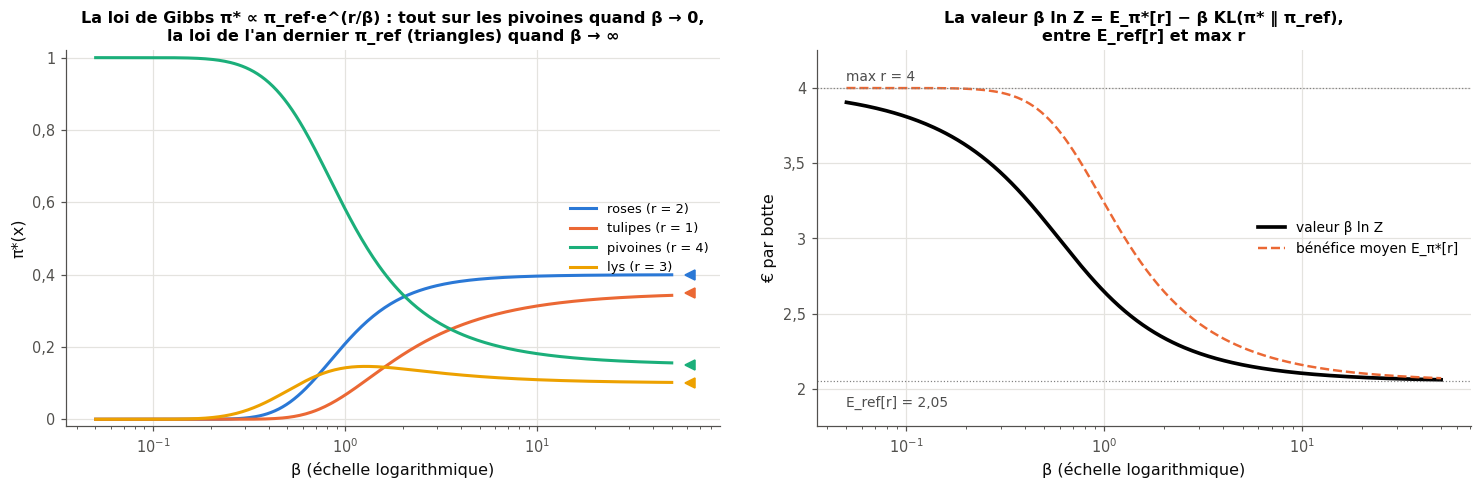
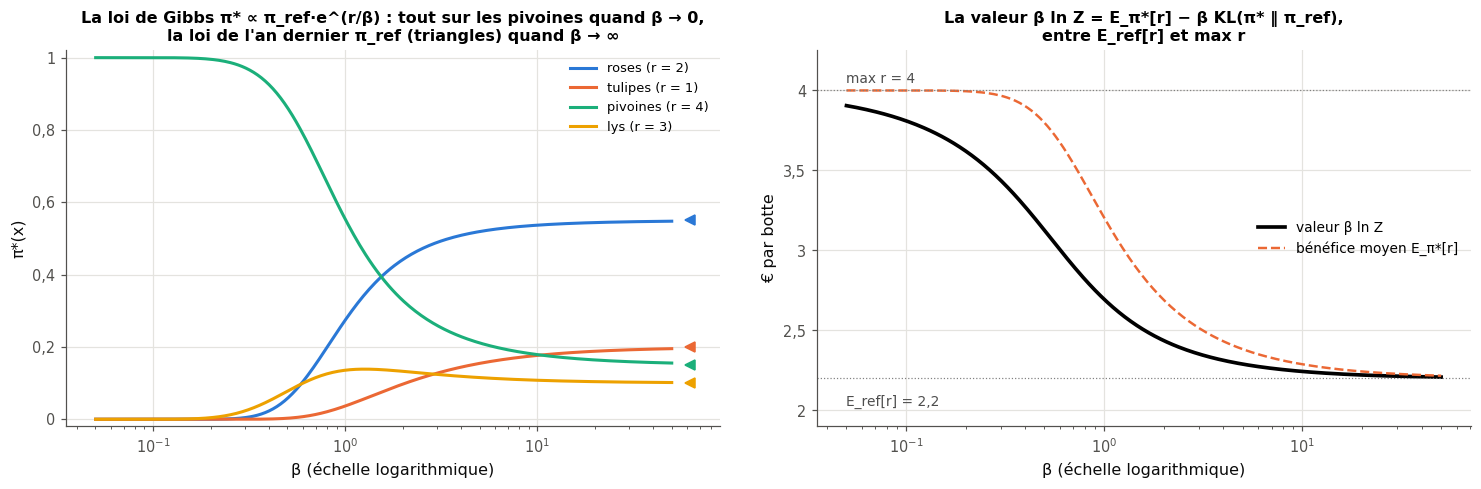
MB8 (en cours) : corrections de la re-résolution à l'aveugle et de la relecture de partage (étape 3 de l'auteur des exercices)
Claude-Session: https://claude.ai/code/session_01Nzd2BLBqKp1WGBHcAcsxs2

diff --git a/tools/chapters/figures_mb8.py b/tools/chapters/figures_mb8.py
@@ -22,7 +22,7 @@ Writes small PNG files into chapitres/mb8_gradient_politique/figures/:
 - §7: the Bradley-Terry probability σ(β_i − β_j) and the Elo expected result 1/(1 + 10^(−ΔR/400)), the same curve
   on two scales; Zermelo's sweeps on a table-tennis league of four players (each pair plays 4 matches);
 - §8: a florist's Gibbs law π* ∝ π_ref e^{r/β} over four flowers as a function of β, and its value β ln Z between
-  E_ref[r] = 2.05 and max r = 4.
+  E_ref[r] = 2.2 and max r = 4.
 The numbers are those of the fiche; none comes from workbookIA B1 to B8, nor from the exercises of MB8. The figures
 that draw random numbers use the seeds 8091 (§2), 8092 (§3) and 8093 (§6), among the seeds 8091 to 8099 kept for MB8.
 """
@@ -68,7 +68,7 @@ LEAGUE = np.array([[0, 3, 2, 4], [1, 0, 3, 2], [2, 1, 0, 3], [0, 2, 1, 0]], dtyp
 PLAYERS = ["A", "B", "C", "D"]
 # §8: the florist
 FLOWERS = ["roses", "tulipes", "pivoines", "lys"]
-PI_REF = np.array([0.4, 0.35, 0.15, 0.1])
+PI_REF = np.array([0.55, 0.2, 0.15, 0.1])
 PROFIT = np.array([2.0, 1.0, 4.0, 3.0])
 
 
@@ -401,7 +401,7 @@ def gibbs() -> None:
     ax.set(xlabel="β (échelle logarithmique)", ylabel="π*(x)", ylim=(-0.02, 1.02))
     ax.set_title("La loi de Gibbs π* ∝ π_ref·e^(r/β) : tout sur les pivoines quand β → 0,\n"
                  "la loi de l'an dernier π_ref (triangles) quand β → ∞", fontsize=10.5)
-    ax.legend(fontsize=8.5, loc="center right")
+    ax.legend(fontsize=8.5, loc="upper right")
     ax = axes[1]
     value = np.array([b * math.log(np.sum(PI_REF * np.exp(PROFIT / b))) for b in betas])
     mean_r = laws @ PROFIT
@@ -410,9 +410,9 @@ def gibbs() -> None:
     ax.axhline(PROFIT.max(), color="0.5", lw=0.8, ls=":")
     ax.axhline(PI_REF @ PROFIT, color="0.5", lw=0.8, ls=":")
     ax.text(betas[0], PROFIT.max() + 0.05, "max r = 4", fontsize=9, color="0.3")
-    ax.text(betas[0], PI_REF @ PROFIT - 0.17, "E_ref[r] = 2,05", fontsize=9, color="0.3")
+    ax.text(betas[0], PI_REF @ PROFIT - 0.17, "E_ref[r] = 2,2", fontsize=9, color="0.3")
     ax.yaxis.set_major_formatter(FuncFormatter(french_number))
-    ax.set(xlabel="β (échelle logarithmique)", ylabel="€ par botte", ylim=(1.75, 4.25))
+    ax.set(xlabel="β (échelle logarithmique)", ylabel="€ par botte", ylim=(1.9, 4.25))
     ax.set_title("La valeur β ln Z = E_π*[r] − β KL(π* ‖ π_ref),\n"
                  "entre E_ref[r] et max r", fontsize=10.5)
     ax.legend(fontsize=9, loc="center right")

diff --git a/chapitres/mb8_gradient_politique/01_fiche.md b/chapitres/mb8_gradient_politique/01_fiche.md
@@ -450,7 +450,7 @@ En effet, $10^{(R_j - R_i)/400} = e^{(R_j - R_i)\ln 10/400} = e^{-(\beta_i - \be
 
 ### Un compromis
 
-Une fleuriste répartit ses achats au marché entre quatre fleurs : roses, tulipes, pivoines et lys, l'an dernier dans les proportions $\pi_{\mathrm{ref}} = (0{,}4 ;\ 0{,}35 ;\ 0{,}15 ;\ 0{,}1)$. Leurs bénéfices moyens par botte sont $r = (2 ;\ 1 ;\ 4 ;\ 3)$ euros. Tout miser sur les pivoines bouleverserait ses habitudes et celles de ses clients : elle cherche la répartition $\pi$ qui maximise
+Une fleuriste répartit ses achats au marché entre quatre fleurs : roses, tulipes, pivoines et lys, l'an dernier dans les proportions $\pi_{\mathrm{ref}} = (0{,}55 ;\ 0{,}2 ;\ 0{,}15 ;\ 0{,}1)$. Leurs bénéfices moyens par botte sont $r = (2 ;\ 1 ;\ 4 ;\ 3)$ euros. Tout miser sur les pivoines bouleverserait ses habitudes et celles de ses clients : elle cherche la répartition $\pi$ qui maximise
 $$F(\pi) = \mathbb{E}_\pi[r] - \beta\,\mathrm{KL}(\pi \,\|\, \pi_{\mathrm{ref}}),$$
 le bénéfice moyen moins $\beta > 0$ fois l'écart à l'an dernier.
 
@@ -464,16 +464,16 @@ Comme $\mathrm{KL}(\pi \,\|\, \pi^\star) \ge 0$, avec égalité seulement pour $
 
 L'identité $\ln Z = \frac{F(\pi)}{\beta} + \mathrm{KL}(\pi \,\|\, \pi^\star)$ a la forme de $\ln p(\mathbf{x}) = \operatorname{ELBO}(q) + \mathrm{KL}(q \,\|\, p(\mathbf{z} \mid \mathbf{x}))$ (M25b §5) : un terme qu'on sait calculer, plus un écart positif à la meilleure loi (le corrigé du sujet B de CP6.8 l'avait noté pour la loi de Boltzmann).
 
-**La fleuriste.** Pour $\beta = 1$, les poids $\pi_{\mathrm{ref}}\,e^{r}$ valent $0{,}4e^2 \approx 2{,}9556$ ; $0{,}35e \approx 0{,}9514$ ; $0{,}15e^4 \approx 8{,}1897$ ; $0{,}1e^3 \approx 2{,}0086$, de somme $Z \approx 14{,}1053$ : $\pi^\star \approx (0{,}2095 ;\ 0{,}0674 ;\ 0{,}5806 ;\ 0{,}1424)$, de valeur $\beta\ln Z \approx 2{,}647$ € ; la figure suit $\pi^\star$ pour tous les $\beta$. Contrôle de l'identité pour $\beta = 1$ et la loi uniforme $u$ : $\mathbb{E}_u[r] = 2{,}5$ et $\mathrm{KL}(u \,\|\, \pi_{\mathrm{ref}}) \approx 0{,}1552$, donc $F(u) \approx 2{,}3448$ ; et $\mathrm{KL}(u \,\|\, \pi^\star) \approx 0{,}3017$, avec $2{,}6466 - 0{,}3017 \approx 2{,}345$ : la même valeur.
+**La fleuriste.** Pour $\beta = 1$, les poids $\pi_{\mathrm{ref}}\,e^{r}$ valent $0{,}55e^2 \approx 4{,}0640$ ; $0{,}2e \approx 0{,}5437$ ; $0{,}15e^4 \approx 8{,}1897$ ; $0{,}1e^3 \approx 2{,}0086$, de somme $Z \approx 14{,}8059$ : $\pi^\star \approx (0{,}2745 ;\ 0{,}0367 ;\ 0{,}5531 ;\ 0{,}1357)$, de valeur $\beta\ln Z \approx 2{,}695$ € ; la figure suit $\pi^\star$ pour tous les $\beta$. Contrôle de l'identité pour $\beta = 1$ et la loi uniforme $u$ : $\mathbb{E}_u[r] = 2{,}5$ et $\mathrm{KL}(u \,\|\, \pi_{\mathrm{ref}}) \approx 0{,}2155$, donc $F(u) \approx 2{,}2845$ ; et $\mathrm{KL}(u \,\|\, \pi^\star) \approx 0{,}4105$, avec $2{,}6950 - 0{,}4105 = 2{,}2845$ : la même valeur.
 
 ### Les deux limites
 
 - **$\beta \to 0$** : s'écarter de $\pi_{\mathrm{ref}}$ ne coûte plus rien, et $\pi^\star$ se concentre sur les issues de plus grand bénéfice **parmi celles où $\pi_{\mathrm{ref}} > 0$** (les pivoines) ; $\beta\ln Z$ tend vers ce bénéfice maximal, 4 €, puisque $\max r + \beta\ln\pi_{\mathrm{ref}}(x^\star) \le \beta\ln Z \le \max r$, pour $x^\star$ une issue de bénéfice maximal.
-- **$\beta \to \infty$** : $e^{r/\beta} \to 1$, $\pi^\star \to \pi_{\mathrm{ref}}$, et $\beta\ln Z \to \mathbb{E}_{\mathrm{ref}}[r] = 2{,}05$ € (Taylor d'ordre 1, M05a §3 : $\ln\mathbb{E}_{\mathrm{ref}}[e^{r/\beta}] \approx \frac{\mathbb{E}_{\mathrm{ref}}[r]}{\beta}$).
+- **$\beta \to \infty$** : $e^{r/\beta} \to 1$, $\pi^\star \to \pi_{\mathrm{ref}}$, et $\beta\ln Z \to \mathbb{E}_{\mathrm{ref}}[r] = 2{,}2$ € (Taylor d'ordre 1, M05a §3 : $\ln\mathbb{E}_{\mathrm{ref}}[e^{r/\beta}] \approx \frac{\mathbb{E}_{\mathrm{ref}}[r]}{\beta}$).
 
 Entre les deux, la valeur décroît du meilleur bénéfice au bénéfice moyen de l'an dernier (figure). Réciproquement, $\pi^\star$, $\pi_{\mathrm{ref}}$ et $\beta$ déterminent $r$ sur le support de $\pi_{\mathrm{ref}}$, à une constante additive près : une constante ajoutée à $r$ se simplifie dans $Z$.
 
-![À gauche, les quatre probabilités de la loi de Gibbs π* ∝ π_ref·e^(r/β) en fonction de β, en échelle logarithmique : les pivoines (r = 4) prennent tout quand β est petit, et chaque fleur revient vers sa part de l'an dernier (0,4 ; 0,35 ; 0,15 ; 0,1) quand β grandit. À droite, la valeur β ln Z, qui décroît de max r = 4 vers E_ref[r] = 2,05, et le bénéfice moyen E_π*[r], au-dessus d'elle](figures/gibbs.png)
+![À gauche, les quatre probabilités de la loi de Gibbs π* ∝ π_ref·e^(r/β) en fonction de β, en échelle logarithmique : les pivoines (r = 4) prennent tout quand β est petit, et chaque fleur revient vers sa part de l'an dernier (0,55 ; 0,2 ; 0,15 ; 0,1) quand β grandit. À droite, la valeur β ln Z, qui décroît de max r = 4 vers E_ref[r] = 2,2, et le bénéfice moyen E_π*[r], au-dessus d'elle](figures/gibbs.png)
 
 ### Des cas déjà vus
 
